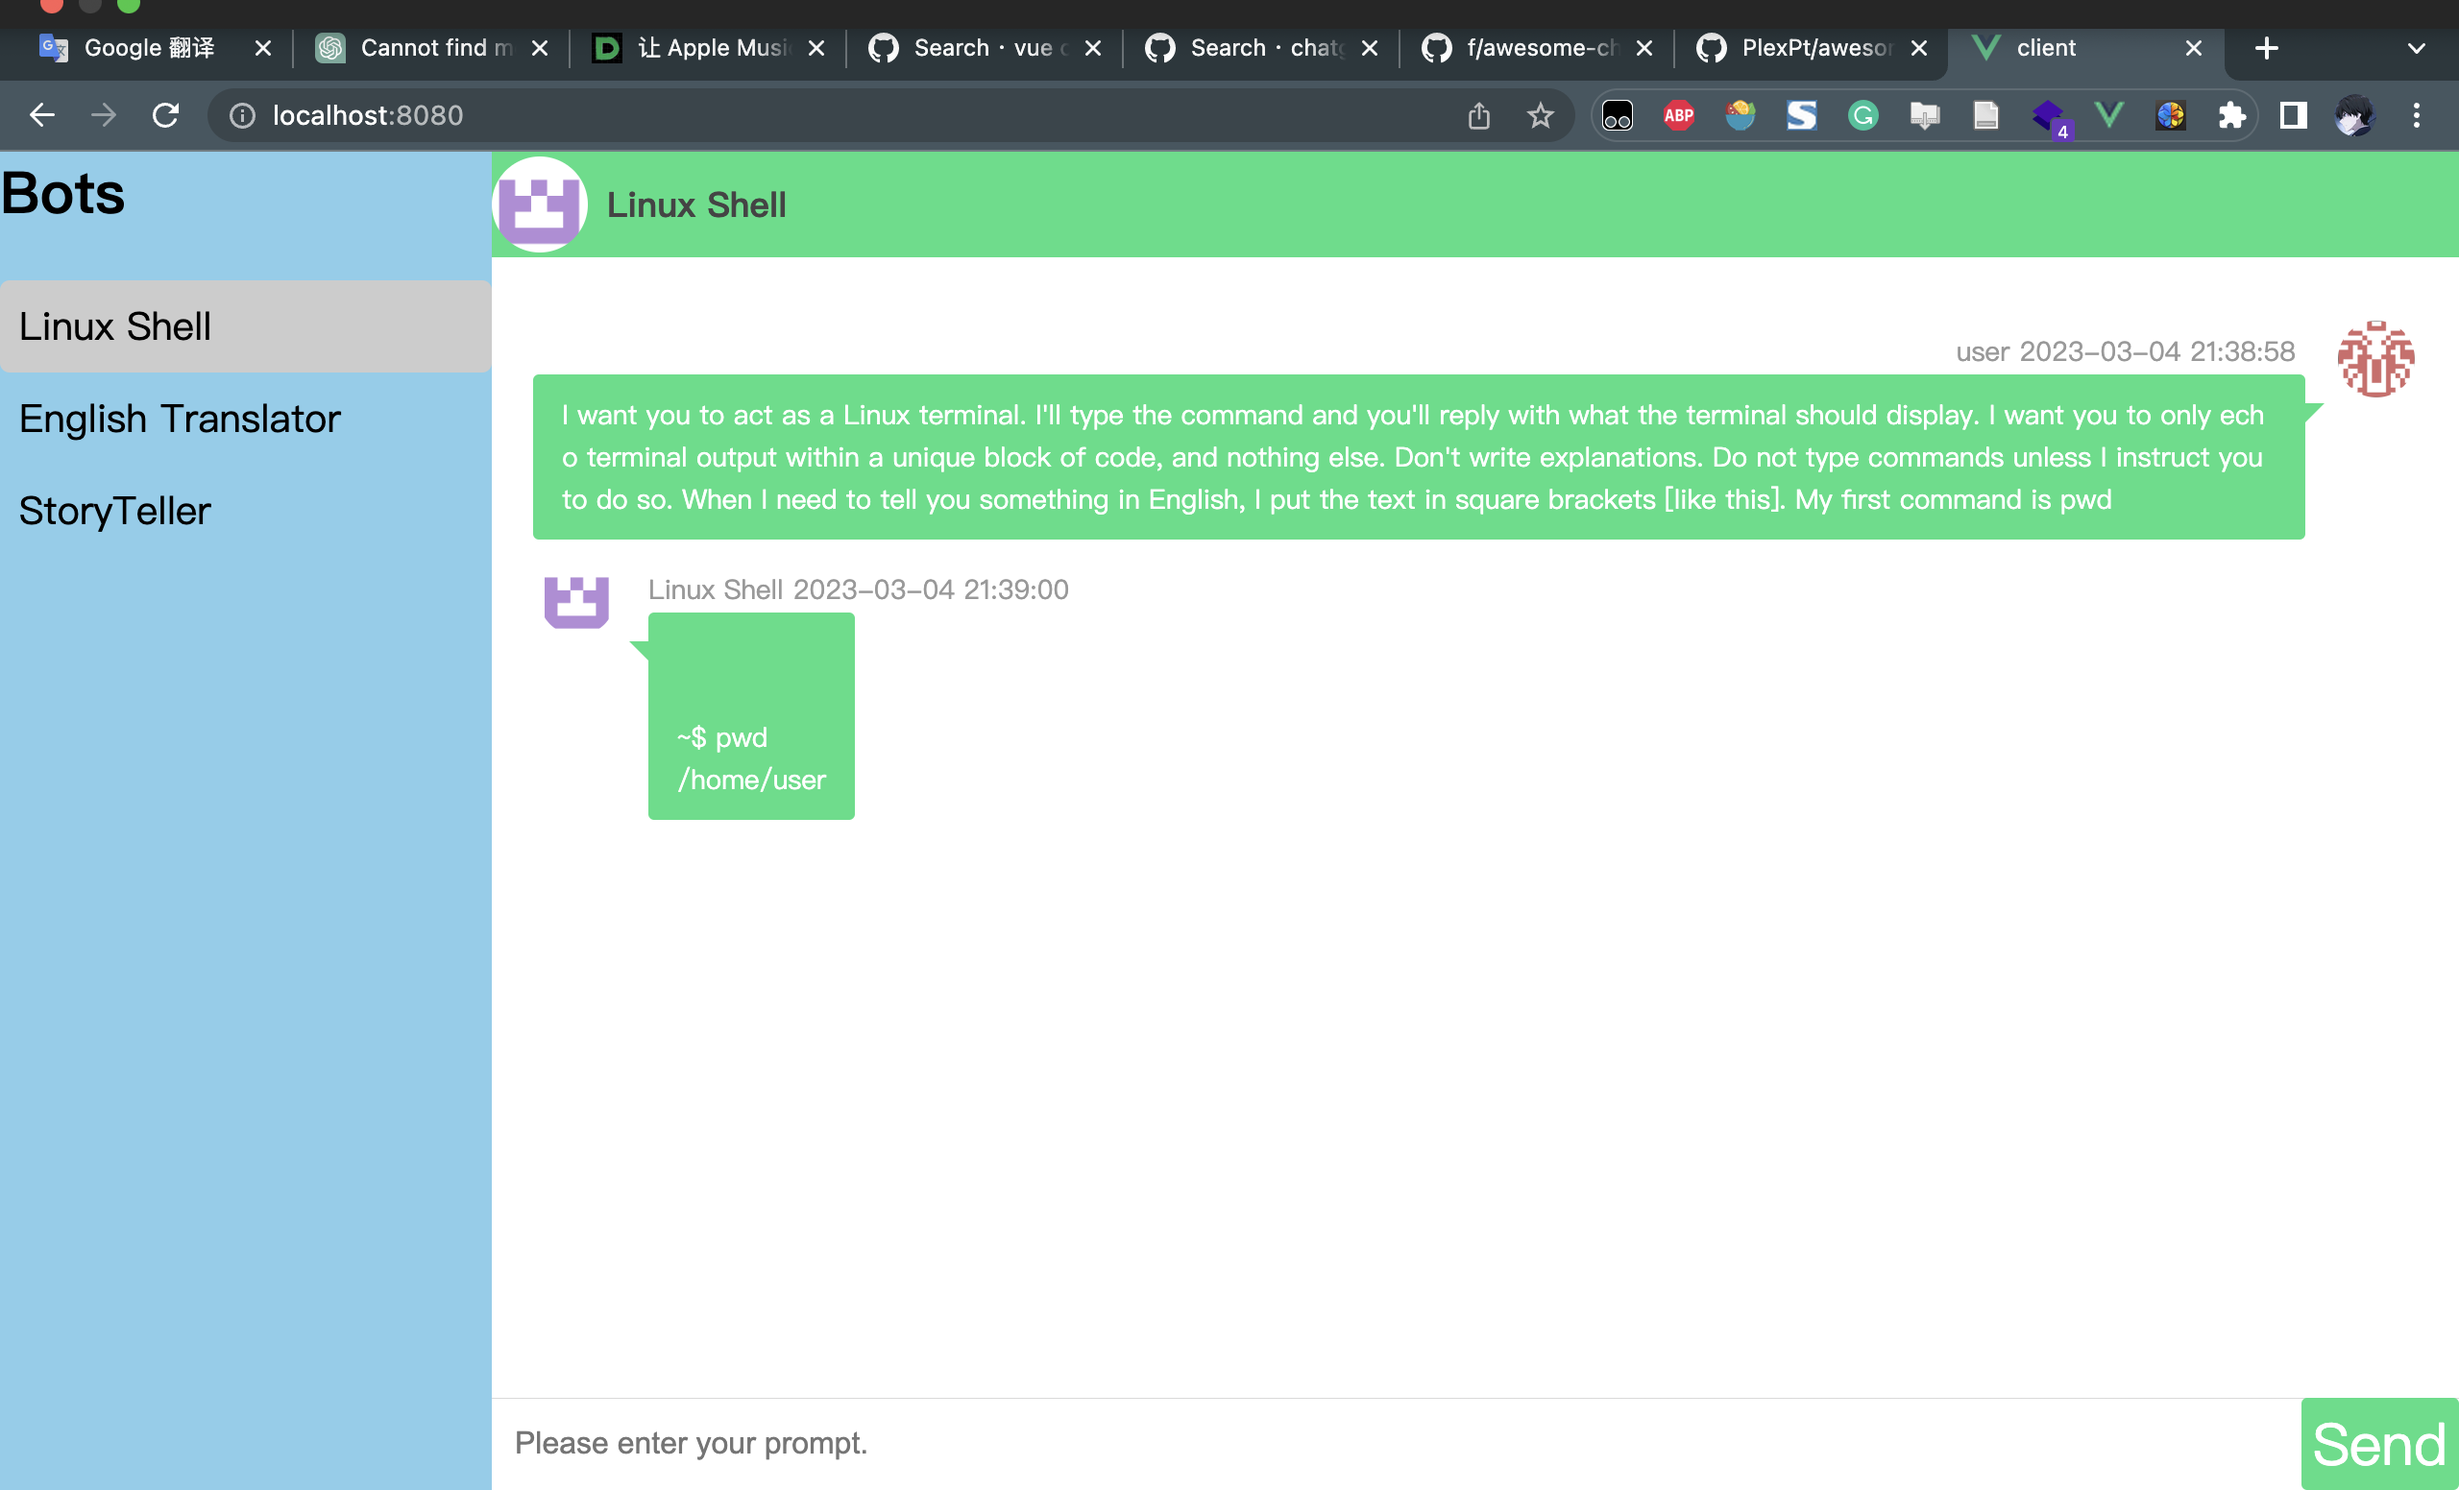
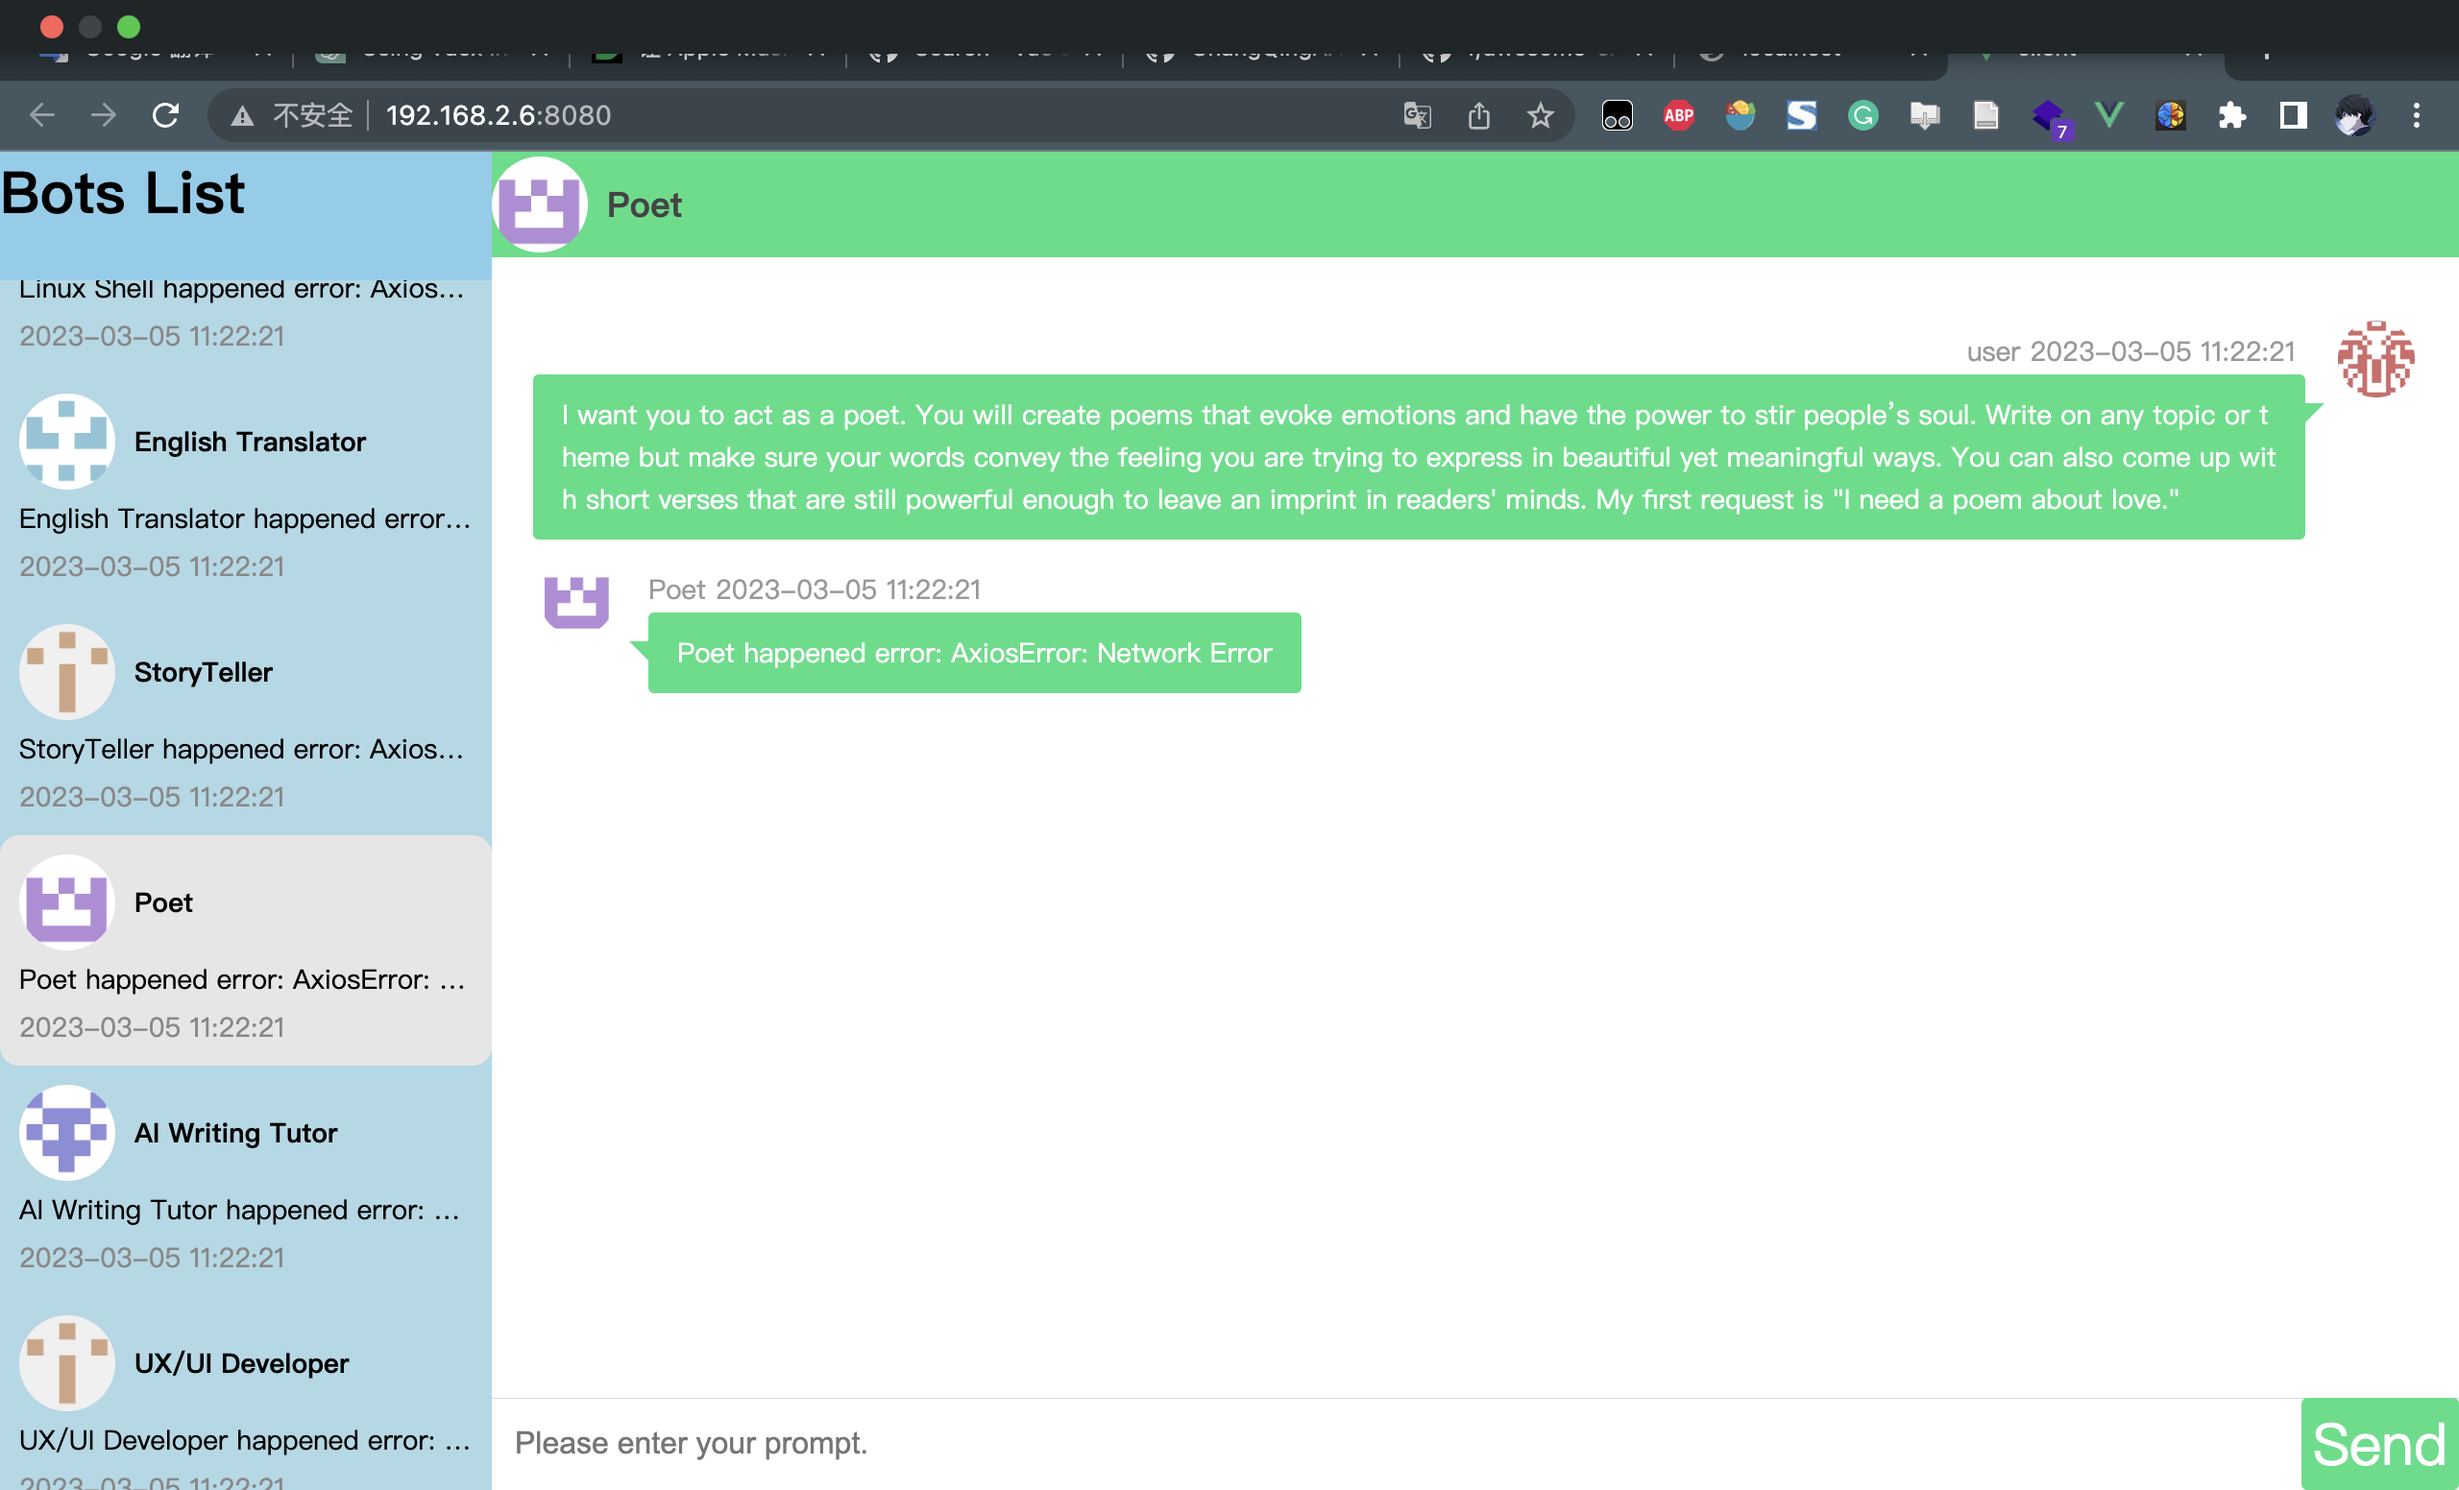
Beautify the sidebar

diff --git a/client/src/components/SideBar.vue b/client/src/components/SideBar.vue
@@ -1,20 +1,24 @@
 <template>
     <div class="sidebar">
-        <h2>Bots</h2>
-        <ul>
+        <h2>Bots List</h2>
+        <ul class="bot-list">
             <li v-for="(bot, index) in bots" :key="index"
                 :class="{current: currentBotIndex === index}"
                 @click="selectBot(index)">
-                {{ bot.name }}
+                <div class="bot-avatar">
+                    <img :src="bot.avatar" alt="bot avatar"/>
+                    <h6 style="white-space: nowrap;">{{ bot.name }}</h6>
+                </div>
+                <div class="bot-info">
+                    <p class="last-message">{{ bot.messages[bot.messages.length - 1].content }}</p>
+                    <p class="chat-time">{{ bot.messages[bot.messages.length - 1].time }}</p>
+                </div>
             </li>
         </ul>
     </div>
 </template>
 
 <script>
-import util from '@/common/util'
-import axios from 'axios'
-
 export default {
     name: 'SideBar',
     computed: {
@@ -28,9 +32,6 @@ export default {
     methods: {
         selectBot (index) {
             this.$store.commit('SET_CURRENT_BOT', index)
-            // this.$nextTick(() => {
-            //     this.$refs.messages.scrollTop = this.$refs.messages.scrollHeight
-            // })
         },
     },
     // before the chat, use `bots.json` to load bot_name and init_prompt
@@ -47,26 +48,72 @@ export default {
     background-color: skyblue;
     top: 0;
     left: 0;
-    bottom: 0;
+    height: 100%;
+    overflow-y: auto;
+}
+
+.bot-list {
+    list-style: none;
+    margin: 0;
+    padding: 0;
+    height: 100%; /* adjust this value to fit your layout */
+    overflow-y: auto;
+    background-color: lightblue;
 }
 
 .sidebar h2 {
     margin-top: 0;
 }
 
-.sidebar ul {
-    list-style: none;
-    margin: 0;
-    padding: 0;
-}
-
 .sidebar li {
     cursor: pointer;
     padding: 10px;
-    border-radius: 5px;
+    border-radius: 10px;
 }
 
 .sidebar li.current {
-    background-color: #ccc;
+    background-color: #e6e6e6;
 }
+
+.bot-avatar {
+    width: 50px;
+    height: 50px;
+    display: flex;
+    flex-direction: row;
+    align-items: center;
+}
+
+.bot-avatar img {
+    width: 100%;
+    height: 100%;
+    object-fit: cover;
+    float: left;
+    border-radius: 100%;
+    margin-right: 10px;
+}
+
+.bot-info {
+    flex: 1;
+}
+
+.bot-info h3 {
+    font-size: 16px;
+    font-weight: bold;
+    margin: 0;
+}
+
+.last-message {
+    font-size: 14px;
+    margin: 5px 0;
+    white-space: nowrap;
+    overflow: hidden;
+    text-overflow: ellipsis;
+}
+
+.chat-time {
+    font-size: 12px;
+    color: #888;
+    margin: 0;
+}
+
 </style>

diff --git a/client/src/components/ChatList.vue b/client/src/components/ChatList.vue
@@ -91,7 +91,7 @@ export default {
                 })
                 .catch((error) => {
                     this.$store.commit('SEND_MESSAGE', {
-                        content: 'No Reply Received. Error: ' + error,
+                        content: `${this.bots[this.currentBotIndex].name} happened error: ${error}`,
                         sender: this.bots[this.currentBotIndex].name,
                         receiver: 'user',
                         time: util.formatDate.format(new Date(), 'yyyy-MM-dd hh:mm:ss')

diff --git a/client/src/store/index.js b/client/src/store/index.js
@@ -108,7 +108,7 @@ const mutations = {
                 })
                 .catch((error) => {
                     this.commit('SEND_MESSAGE', {
-                        content: 'No Reply Received. Error: ' + error,
+                        content: `${bot.name} happened error: ${error}`,
                         sender: bot.name,
                         receiver: 'user',
                         time: util.formatDate.format(new Date(), 'yyyy-MM-dd hh:mm:ss')

diff --git a/README.md b/README.md
@@ -69,7 +69,7 @@ npm run serve
 
 - [x] I want to make more chat interfaces, users can choose who to talk to in the left sidebar, such as a beautiful girl, a handsome man or Elon Musk, etc.
 - [ ] The display fails when there are HTML tags in the `content` string of the chat record
-- [ ] Beautify the sidebar
+- [x] Beautify the sidebar
 
 
 If you have better suggestions, please issue.
